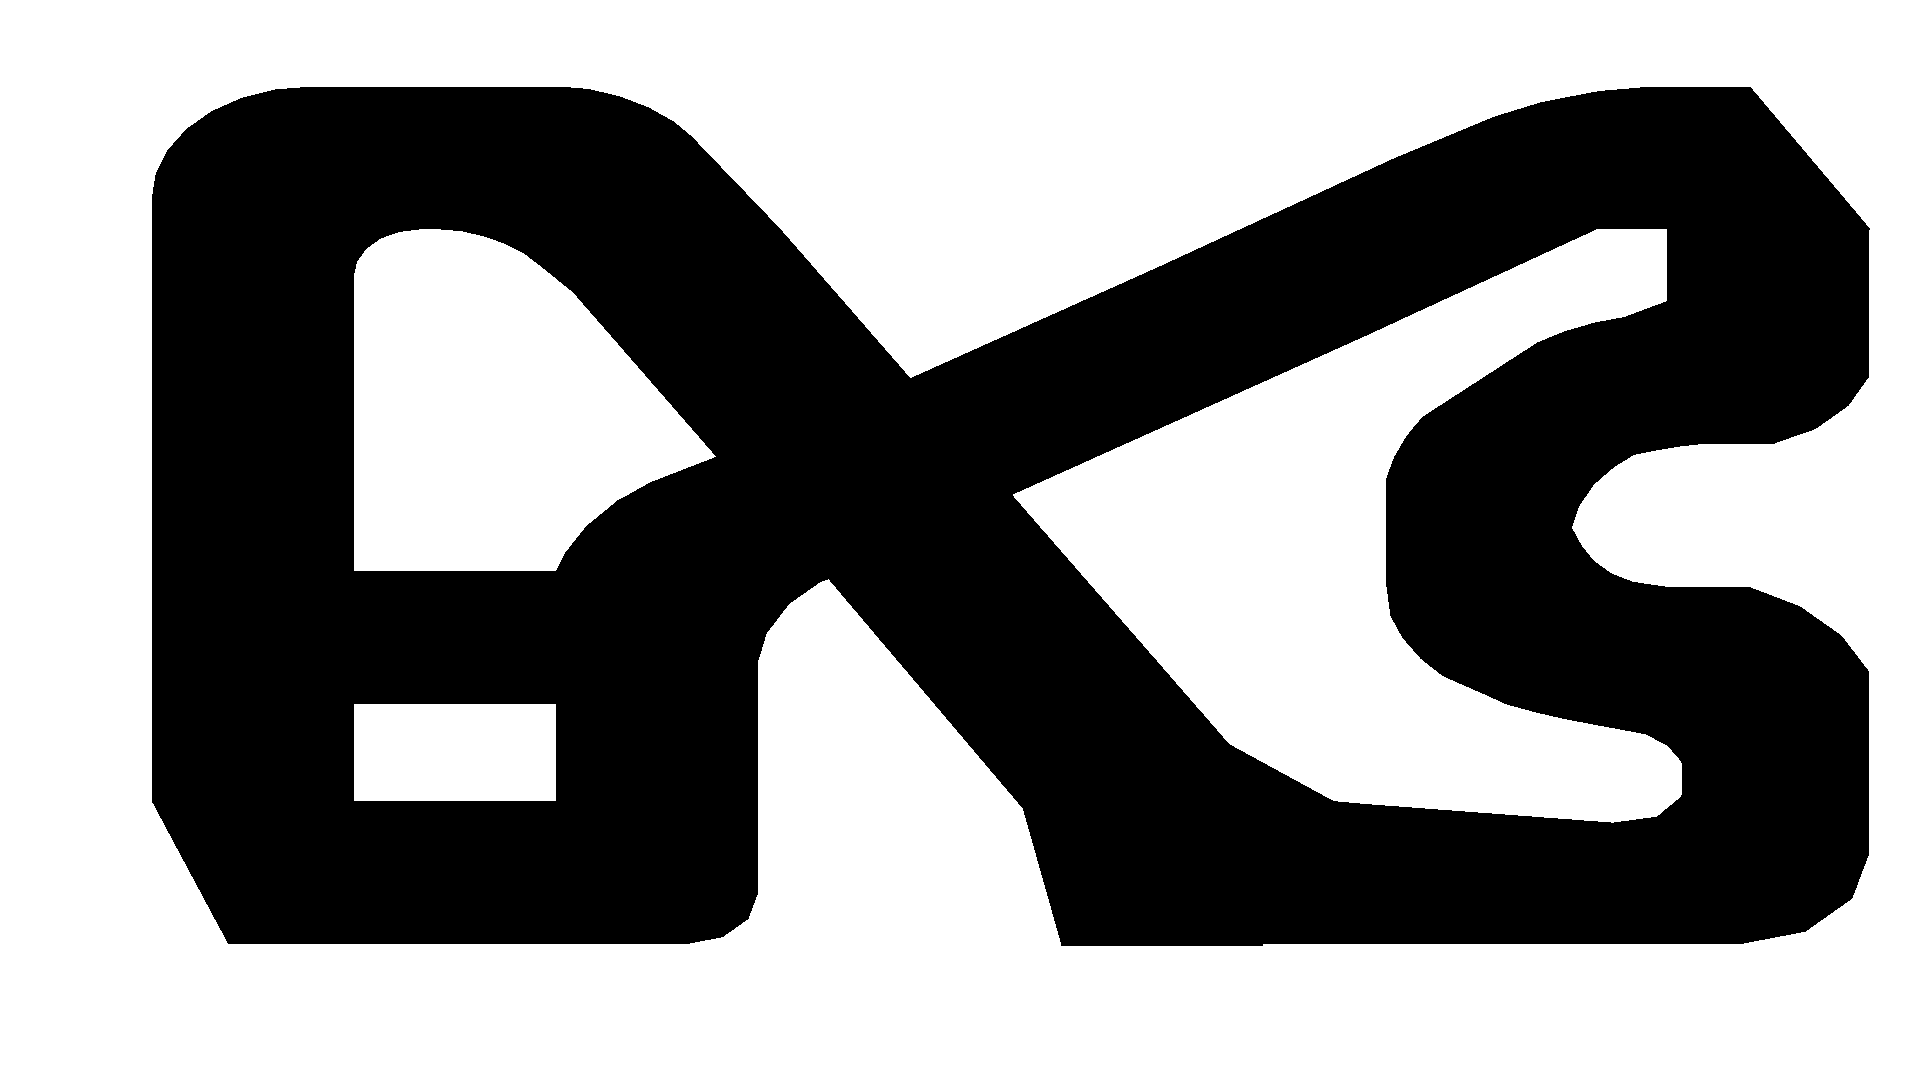
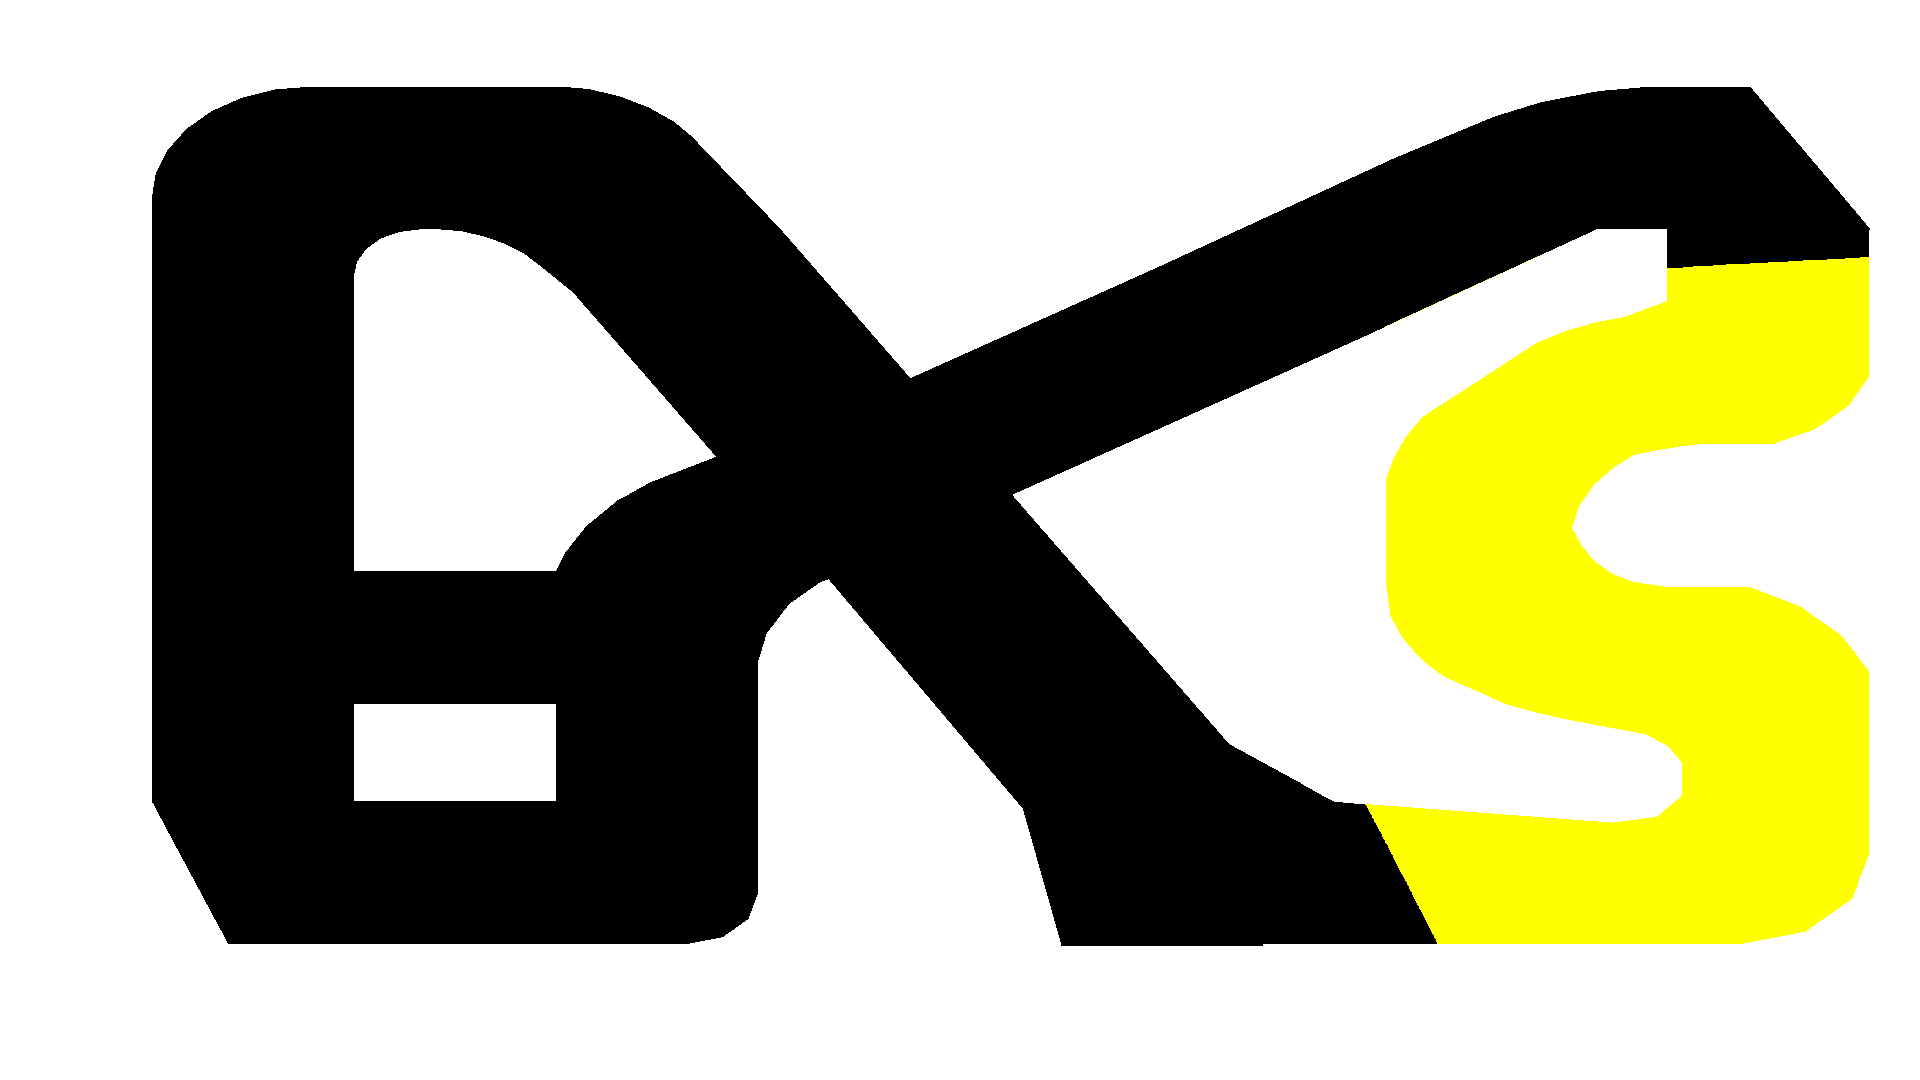
cars now react to sand

Changed region(s): [[0.6875, 0.2139, 1.0, 0.8861]]

diff --git a/map.py b/map.py
@@ -90,7 +90,7 @@ class Map:
     def get_ground_params(self, vec) -> ("tarcie", "starowność"):
         normal = (0.1, 0.99)
         ice = (0.2, 0.996)
-        sand = (0.05, 0.99)
+        sand = (0.05, 0.98)
         rect = self.hitbox.get_rect()
 
         if 0 < vec.x < rect.width and 0 < vec.y < rect.height:
@@ -108,6 +108,10 @@ class Map:
             # kolor niebieski to lód (mniejsze tarcie i sterowność)
             if hitbox_color == (0, 0, 255, 255):
                 return ice
+
+            # kolor ̣̣żółty oznacza piasek (większe tarcie)
+            if hitbox_color == (255, 255, 0, 255):
+                return sand
 
         return normal
 
